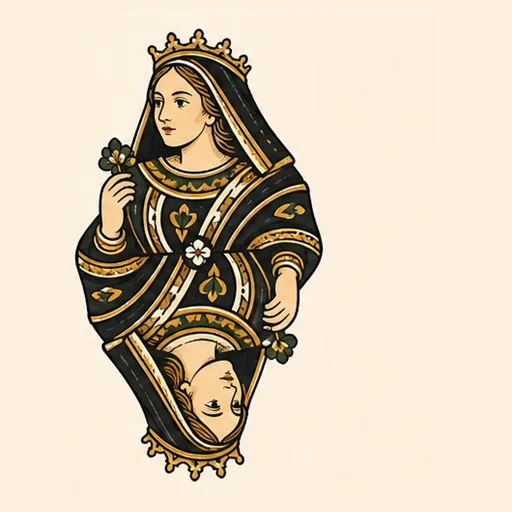
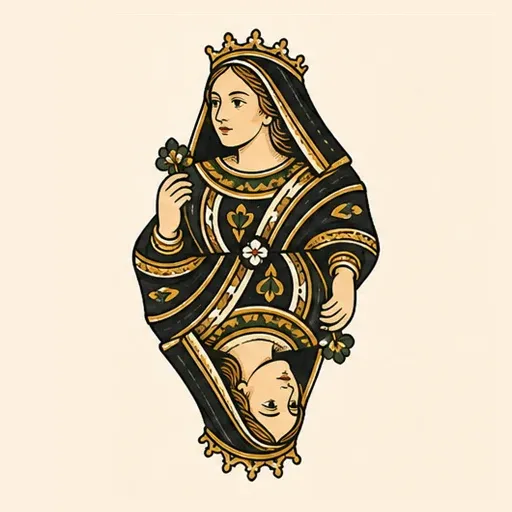
Recenter black queen face card

diff --git a/client/offlineCache.ts b/client/offlineCache.ts
@@ -1,6 +1,6 @@
 import { OFFLINE_STATIC_ASSETS } from "../shared/gameAssets";
 
-const OFFLINE_CACHE_NAME = "pounce-offline-v8";
+const OFFLINE_CACHE_NAME = "pounce-offline-v9";
 const OFFLINE_PAGES = ["/", "/offline"];
 const STATIC_ASSETS = OFFLINE_STATIC_ASSETS;
 

diff --git a/public/sw.js b/public/sw.js
@@ -1,4 +1,4 @@
-const CACHE_NAME = "pounce-offline-v8";
+const CACHE_NAME = "pounce-offline-v9";
 const GAME_ASSET_MANIFEST_URL = "/game-assets.json";
 const OFFLINE_PAGES = ["/", "/offline"];
 const APP_SHELL = [...OFFLINE_PAGES, GAME_ASSET_MANIFEST_URL];